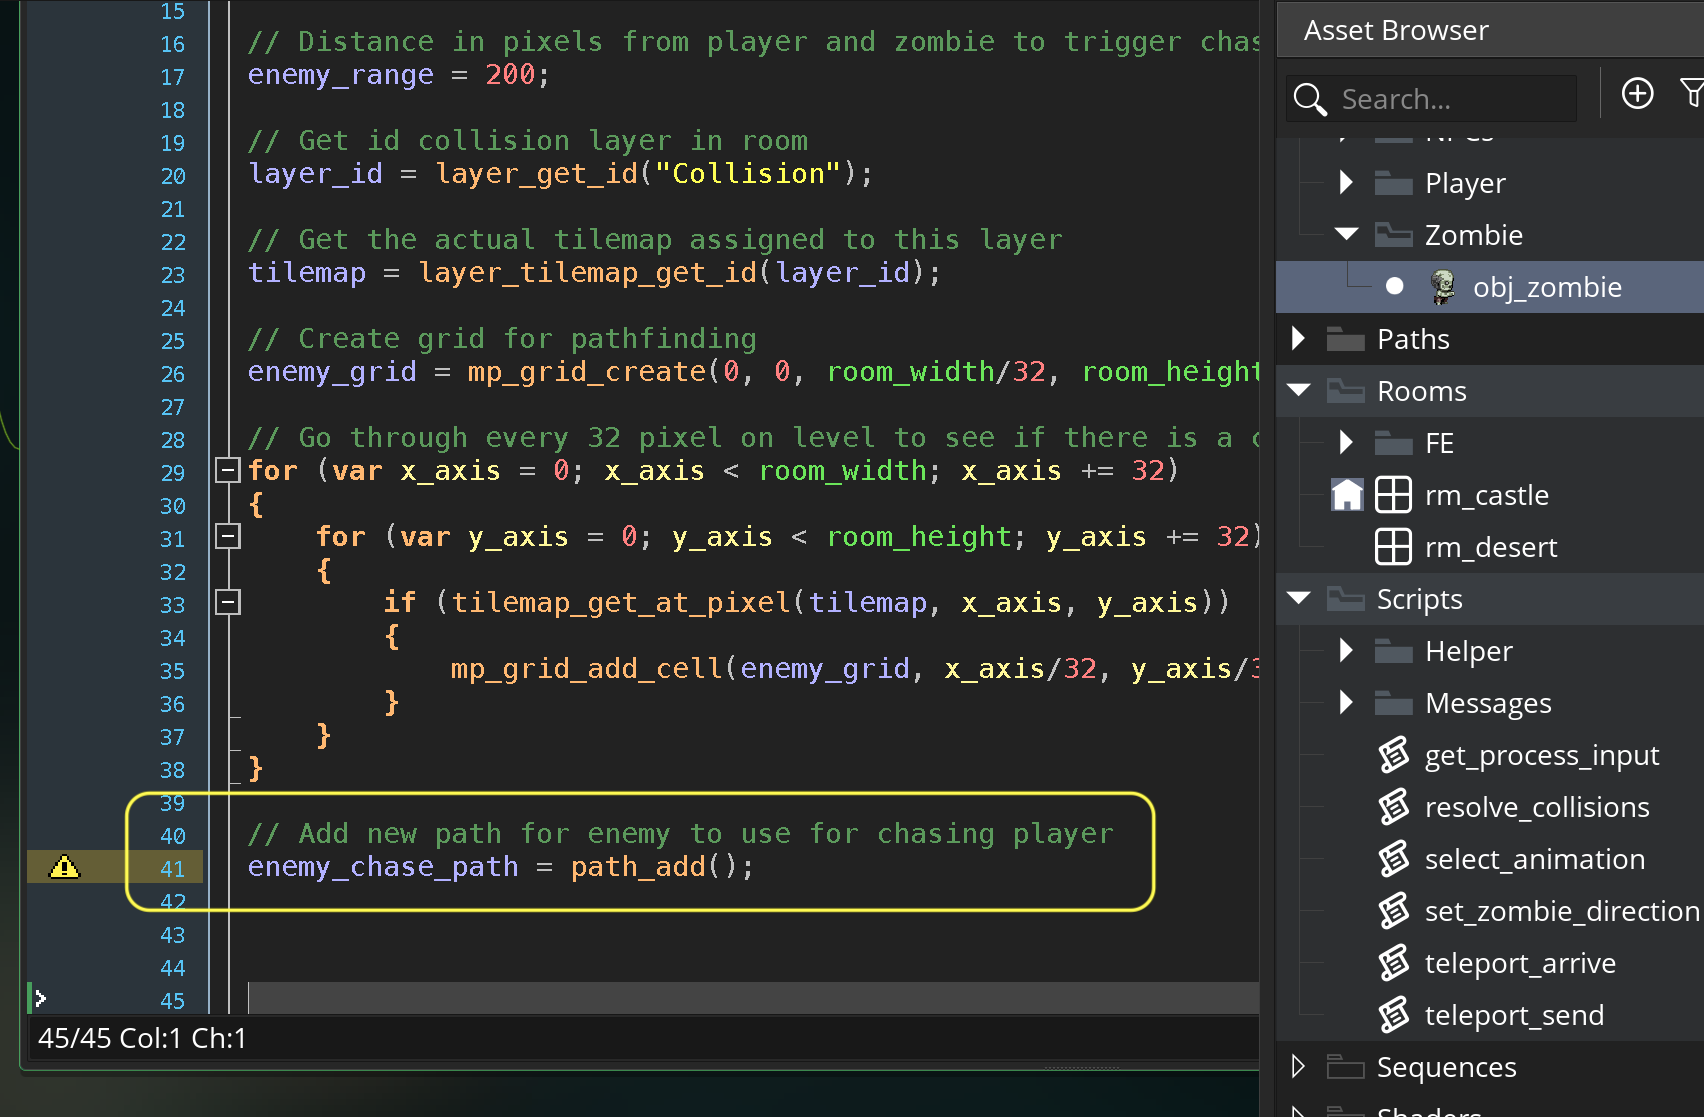
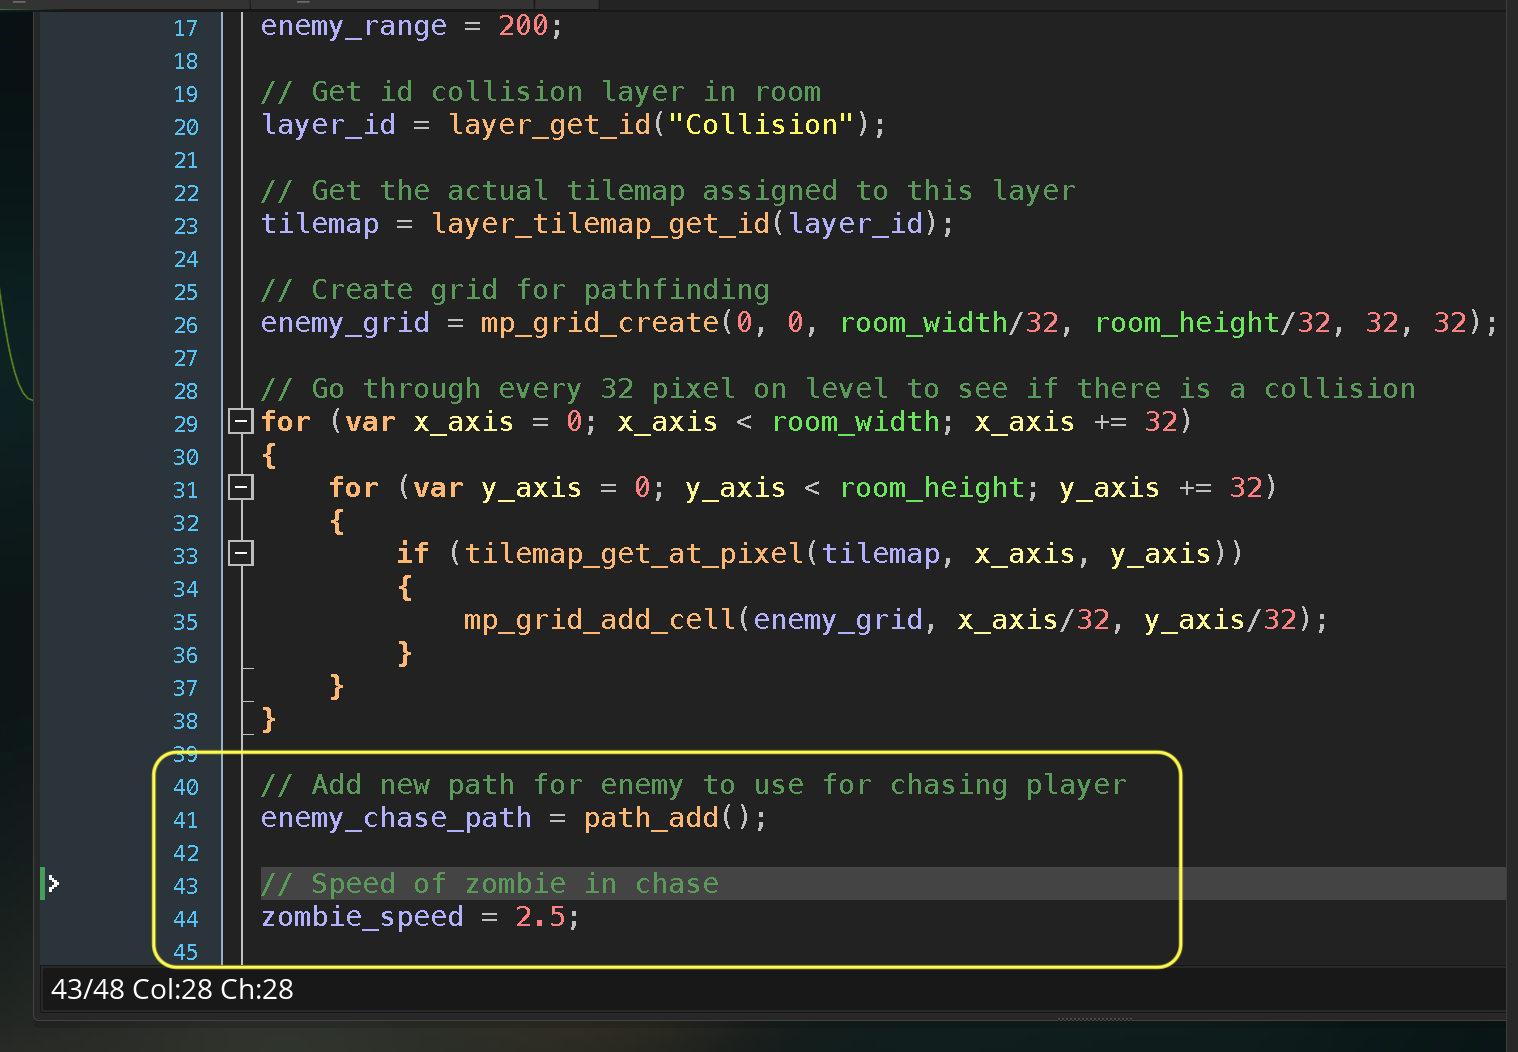
porting walk through

Changed region(s): [[0.0, 0.0, 1.0, 1.0], [0.2167, 0.6388, 0.2477, 0.6692]]

diff --git a/pathfinding-ii/README.md b/pathfinding-ii/README.md
@@ -101,7 +101,7 @@ Now that we are done with the **Draw** event on **obj_zombie** right click on it
 
 We can also create paths using this grid information.  So we need to change the path from the one for patrol to one between the zombie and the player but avoiding the forbiden tiles. First we have to create a new path for the zombie to follow that leads to the player's location.  We cannot lose the patrol path as the zombie will need this again when the player escapes and the zombie needs to go back to patrolling. 
 
-We will be using `path_add()`and set a chase speed in the zombie create. Open up **obj_zombie: Create** event and add antoher path.
+We will be using `path_add()`and set a chase speed of `2.5` in the zombie create. Open up **obj_zombie: Create** event and add antoher path.
 
 ![add chase path to zombie create](images/addChasePath.png)
 
@@ -110,7 +110,9 @@ We will be using `path_add()`and set a chase speed in the zombie create. Open up
 
 ##### `Step 11.`\|`SPCRK`| :large_blue_diamond: :small_blue_diamond: 
 
-Now we need to create a new script called `enemy_chase`.  In this script we will create a new path for the zombie between them and the player.  It will then start the script.
+Now we set up this grid because gamemaker provides a function that dynamically creates a path based on this collision grid so the enemy won't run into a grid section. We can create a path dynamically in script using: `mp_grid_path(d, path, xstart, ystart, xgoal, ygoal, allowdiag).
+
+Now we need to create a new script called `enemy_chase`.  In this script we will create a new path for the zombie between them and the player.  It will then start the zombie to follow this new path.
 
 ![enemy_chase script](images/enemyChase.png)
 
@@ -129,7 +131,7 @@ Open up **obj_zombie** and create a new **Step** event. Check to see if we are i
 
 
 
-Now we set up this grid because gamemaker provides a function that dynamically creates a path based on this collision grid so the enemy won&#39;t run into a grid section. We can create a path dynamically in script using: <a href="gms2tutorials:///ShowHelp?keyword=mp_grid_path">mp_grid_path(d, path, xstart, ystart, xgoal, ygoal, allowdiag)</a>. Create a new script called scr_enemy_chase and add:
+
 
 Run the game by pressing the <img style="vertical-align:middle" src="http://marcaubanel.com/gamemaker/GMS2-Images/Shared/Icon_RunProject.png" alt="play button icon"> Play Button. Run up to the zombie then run away from it. Notice that it now follows you!
 
